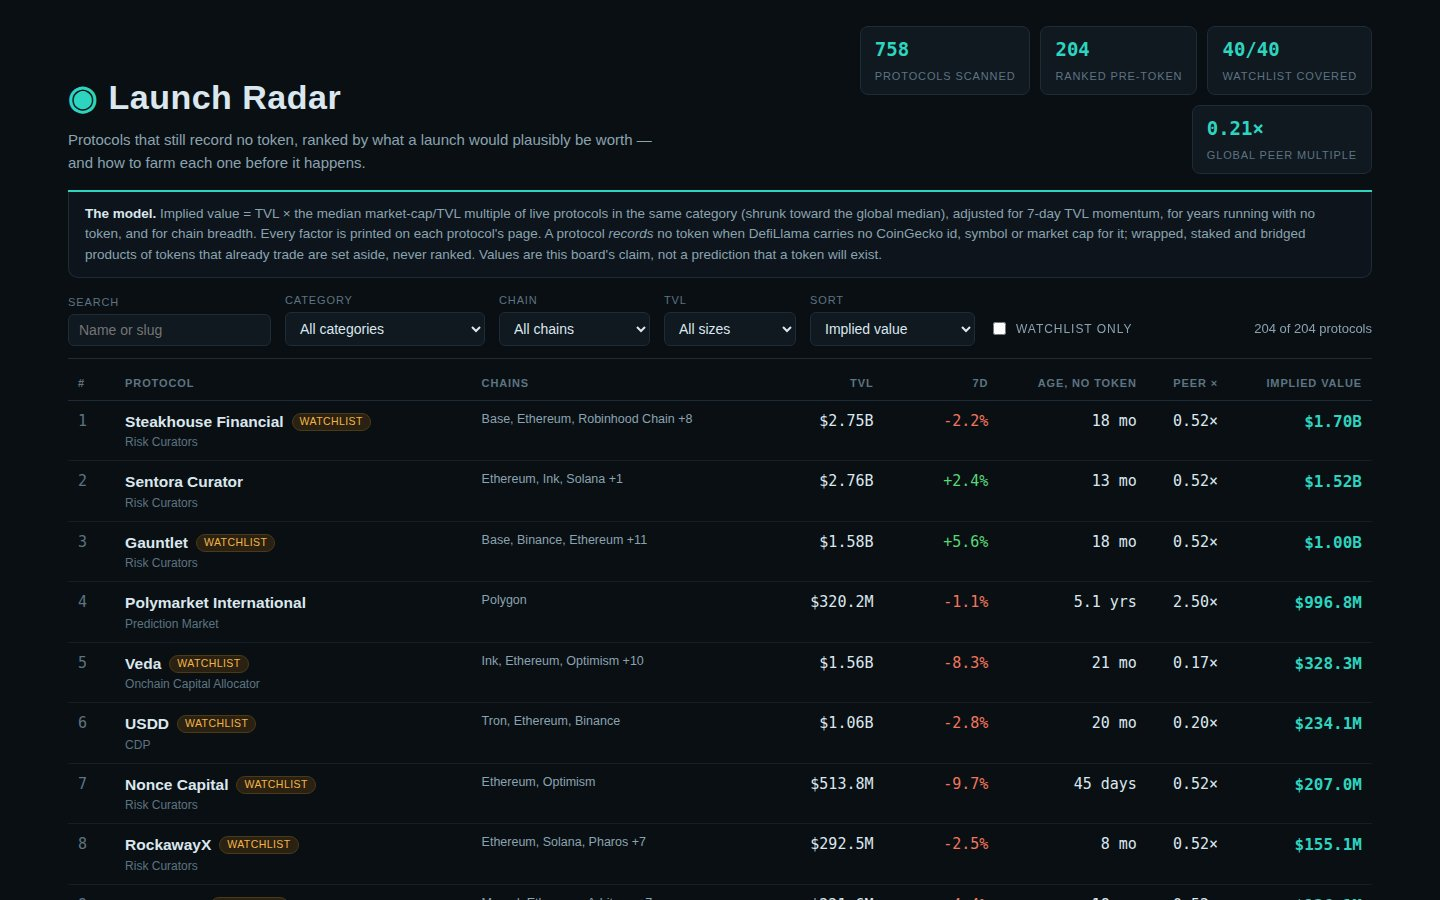
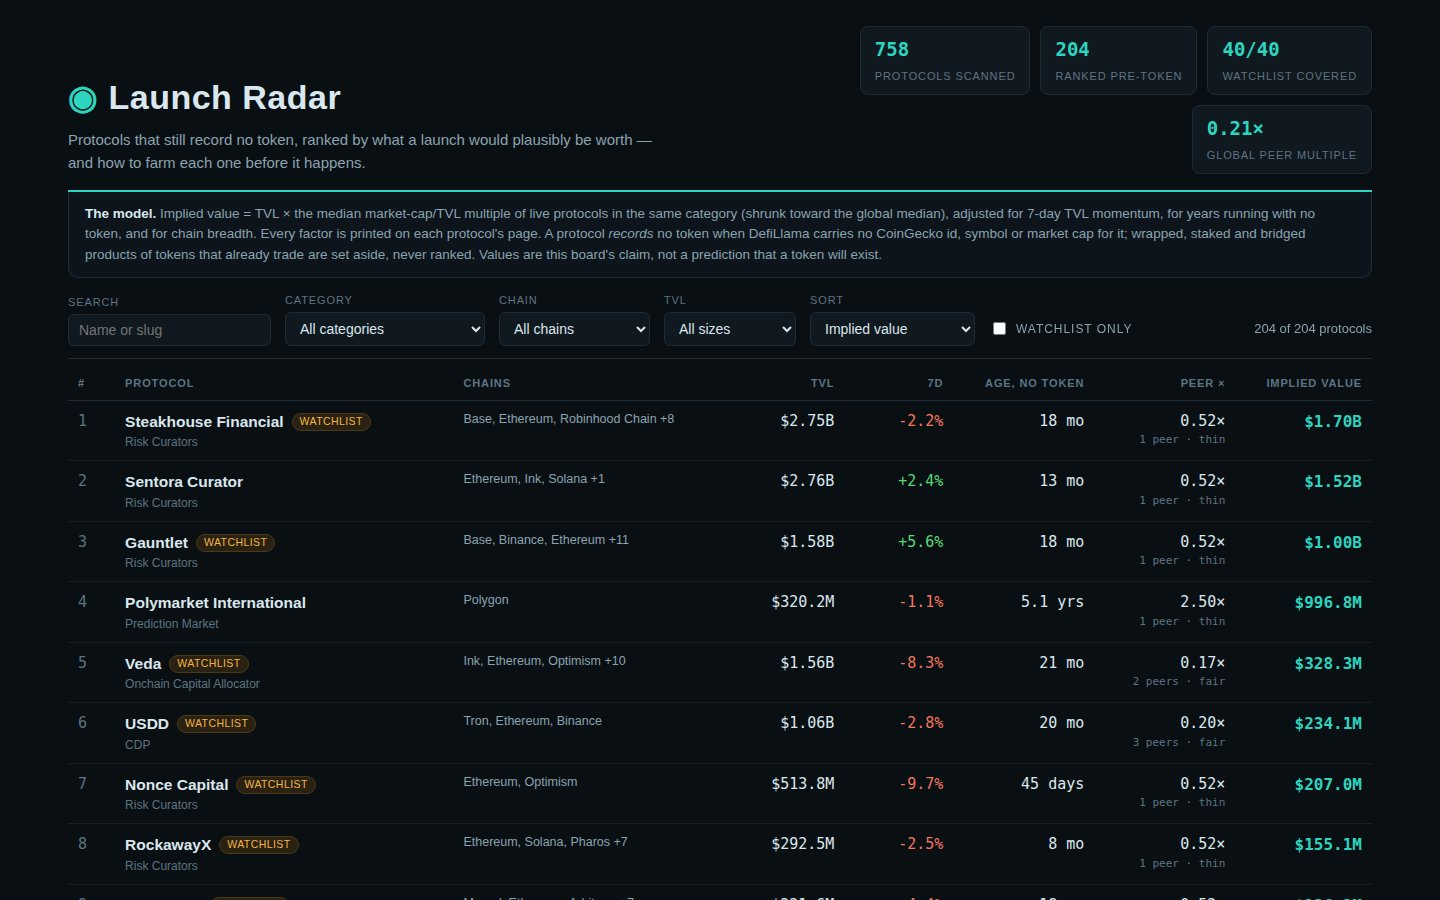
v2: name the live peers behind every multiple, grade the evidence, value bars

diff --git a/lib/model.ts b/lib/model.ts
@@ -57,7 +57,7 @@ export interface Snapshot {
 }
 
 /** The model's version label, stated in the dashboard and in every data file it writes. */
-export const MODEL_VERSION = 'peer-multiple radar-2';
+export const MODEL_VERSION = 'peer-multiple radar-3';
 
 /** How many ranked candidates the board carries before the watchlist force-in pass. */
 export const BOARD_ROWS = 240;
@@ -112,11 +112,14 @@ function median(xs: number[]): number {
 export interface PeerMultiples {
   global: number;
   byCategory: Map<string, { multiple: number; peers: number }>;
+  /** The live peers behind each category, largest market cap first: the evidence, named. */
+  lists: Map<string, { name: string; multiple: number; mcap: number }[]>;
 }
 
 export function peerMultiples(snapshot: Snapshot): PeerMultiples {
   const ratios: number[] = [];
   const perCategory = new Map<string, number[]>();
+  const lists = new Map<string, { name: string; multiple: number; mcap: number }[]>();
   for (const p of snapshot.protocols) {
     if (!recordsToken(p) || p.mcap_usd === null || p.mcap_usd <= 0 || p.tvl_usd < 1_000_000) continue;
     const ratio = p.mcap_usd / p.tvl_usd;
@@ -126,6 +129,9 @@ export function peerMultiples(snapshot: Snapshot): PeerMultiples {
     const list = perCategory.get(key) ?? [];
     list.push(ratio);
     perCategory.set(key, list);
+    const named = lists.get(key) ?? [];
+    named.push({ name: p.name, multiple: Math.round(ratio * 1000) / 1000, mcap: p.mcap_usd });
+    lists.set(key, named);
   }
   const global = ratios.length > 0 ? clamp(median(ratios), 0.03, 2.5) : 0.25;
   const byCategory = new Map<string, { multiple: number; peers: number }>();
@@ -135,7 +141,8 @@ export function peerMultiples(snapshot: Snapshot): PeerMultiples {
     const shrunk = (list.length * median(list) + 8 * global) / (list.length + 8);
     byCategory.set(key, { multiple: clamp(shrunk, 0.03, 2.5), peers: list.length });
   }
-  return { global, byCategory };
+  for (const named of lists.values()) named.sort((a, b) => b.mcap - a.mcap || a.name.localeCompare(b.name));
+  return { global, byCategory, lists };
 }
 
 /** The multiple a candidate is valued with, and how many live peers stand behind it. */
@@ -150,6 +157,8 @@ export interface ScoredCandidate {
   age_days: number | null;
   multiple: number;
   peers: number;
+  peer_names: { name: string; multiple: number }[];
+  confidence: 'deep' | 'fair' | 'thin';
   momentum: number;
   maturity: number;
   breadth: number;
@@ -158,13 +167,16 @@ export interface ScoredCandidate {
 
 export function scoreCandidate(p: SnapshotProtocol, peers: PeerMultiples, asOf: string): ScoredCandidate {
   const { multiple, peers: peerCount } = multipleFor(peers, p.category);
+  const named = peers.lists.get(p.category ?? '(uncategorised)') ?? [];
+  const peerNames = named.slice(0, 3).map((n) => ({ name: n.name, multiple: n.multiple }));
+  const confidence = peerCount >= 5 ? 'deep' : peerCount >= 2 ? 'fair' : 'thin';
   const age = ageDays(p, asOf);
   const growth = clamp(p.change_7d ?? 0, -50, 100);
   const momentum = 1 + 0.35 * (growth / 100);
   const maturity = 0.75 + 0.5 * (Math.min(age ?? 365, 1095) / 1095);
   const breadth = 1 + 0.04 * Math.min(Math.max(p.chains.length - 1, 0), 5);
   const implied = Math.max(1, Math.round(p.tvl_usd * multiple * momentum * maturity * breadth));
-  return { protocol: p, age_days: age, multiple, peers: peerCount, momentum, maturity, breadth, implied_value_usd: implied };
+  return { protocol: p, age_days: age, multiple, peers: peerCount, peer_names: peerNames, confidence, momentum, maturity, breadth, implied_value_usd: implied };
 }
 
 /** Compact dollars for prose: $1.2B, $340M, $25K. */
@@ -285,15 +297,16 @@ function coreSteps(p: SnapshotProtocol, size: string, gas: string): [string, str
  * takes, built from the protocol's own category, chains and scale. Deterministic: the same
  * snapshot figures always write the same plan.
  */
-export function farmSteps(p: SnapshotProtocol, asOf: string): string[] {
+export function farmSteps(p: SnapshotProtocol, asOf: string, watchlisted = false): string[] {
   const size = sizeBand(p.tvl_usd);
   const primary = p.chains[0] ?? 'its main chain';
   const gas = gasProfile(primary);
   const age = ageDays(p, asOf);
   const seasoning = age !== null && age >= 730 ? ` It has run ${Math.floor(age / 365)} years with no token, so the farm is a patience trade, not a sprint.` : '';
+  const listed = watchlisted ? ' It is on the house watchlist (over $50M TVL, no token recorded).' : '';
   const [core1, core2] = coreSteps(p, size, gas);
   return [
-    `Set up one wallet for ${p.name} and fund it on ${primary} with ${size} of working capital; use this same wallet for every step so the protocol sees one consistent user.${seasoning} Cost: one funding transaction (${gas}). Time: 15 minutes.`,
+    `Set up one wallet for ${p.name} and fund it on ${primary} with ${size} of working capital; use this same wallet for every step so the protocol sees one consistent user.${seasoning}${listed} Cost: one funding transaction (${gas}). Time: 15 minutes.`,
     core1,
     core2,
     `Stay consistent for at least 8 weeks: repeat the core action weekly and keep a balance in place across weekly snapshots, since one-day spikes are the first thing points and season systems discount. Cost: ${gas} each week. Time: 20 minutes a week.`,
@@ -315,6 +328,8 @@ export interface BoardRow {
   implied_value_usd: number;
   multiple: number;
   peers: number;
+  peer_names: { name: string; multiple: number }[];
+  confidence: 'deep' | 'fair' | 'thin';
   momentum: number;
   maturity: number;
   breadth: number;
@@ -419,11 +434,13 @@ export function buildRadar(snapshot: Snapshot): { board: BoardRow[]; radar: Rada
     implied_value_usd: s.implied_value_usd,
     multiple: Math.round(s.multiple * 1000) / 1000,
     peers: s.peers,
+    peer_names: s.peer_names,
+    confidence: s.confidence,
     momentum: Math.round(s.momentum * 1000) / 1000,
     maturity: Math.round(s.maturity * 1000) / 1000,
     breadth: Math.round(s.breadth * 1000) / 1000,
     watchlist: watchlist.has(s.protocol.slug),
-    farm_steps: farmSteps(s.protocol, snapshot.as_of),
+    farm_steps: farmSteps(s.protocol, snapshot.as_of, watchlist.has(s.protocol.slug)),
   }));
 
   const radar: RadarData = {

diff --git a/dashboard/app.js b/dashboard/app.js
@@ -37,6 +37,11 @@
     for (var i = 0; i < DATA.rows.length; i++) if (DATA.rows[i].slug === slug) return DATA.rows[i];
     return null;
   }
+  function barW(x, r) {
+    // Log-scale bar width against the larger of this row's TVL and implied value.
+    var top = Math.max(r.tvl_usd, r.implied_value_usd, 1);
+    return Math.max(4, Math.round(100 * Math.log10(Math.max(x, 1)) / Math.log10(top)));
+  }
 
   // ---- masthead + live strip + footer: the same on every view ----
   (function chrome() {
@@ -130,7 +135,7 @@
         '<td class="n num">' + usd(r.tvl_usd) + '</td>' +
         '<td class="n num">' + pct(r.change_7d) + '</td>' +
         '<td class="n num">' + ageText(r.age_days) + '</td>' +
-        '<td class="n num">' + r.multiple.toFixed(2) + '×</td>' +
+        '<td class="n num">' + r.multiple.toFixed(2) + '×<span class="sub">' + r.peers + ' peer' + (r.peers === 1 ? '' : 's') + ' · ' + r.confidence + '</span></td>' +
         '<td class="n num val">' + usd(r.implied_value_usd) + '</td></tr>';
     });
     view.innerHTML = html + '</tbody></table>';
@@ -156,6 +161,8 @@
       '<div class="kv"><b>' + (r.change_7d == null ? '—' : (r.change_7d >= 0 ? '+' : '') + r.change_7d.toFixed(1) + '%') + '</b><span>TVL change, 7 days</span></div>' +
       '<div class="kv"><b>' + ageText(r.age_days) + '</b><span>running with no token' + (r.listed_at ? ' · since ' + r.listed_at : '') + '</span></div>' +
       '<div class="kv"><b>' + r.chains.length + '</b><span>chains live on</span></div></div>' +
+      '<div class="bars"><div class="bar-row"><span>TVL today</span><div class="bar"><i style="width:' + barW(r.tvl_usd, r) + '%"></i></div><b class="num">' + usd(r.tvl_usd) + '</b></div>' +
+      '<div class="bar-row"><span>Implied value</span><div class="bar"><i class="teal" style="width:' + barW(r.implied_value_usd, r) + '%"></i></div><b class="num">' + usd(r.implied_value_usd) + '</b></div></div>' +
       '<div class="cols"><section class="panel"><h3>How the value is built</h3><table class="factors">' +
       '<tr><td>TVL (the snapshot\u2019s figure)</td><td class="n num">' + usd(r.tvl_usd) + '</td></tr>' +
       '<tr><td>Peer multiple — median mcap/TVL of ' + r.peers + ' live ' + esc(r.category || '') + ' protocol' + (r.peers === 1 ? '' : 's') + ', shrunk to the global median</td><td class="n num">× ' + r.multiple.toFixed(3) + '</td></tr>' +
@@ -164,7 +171,20 @@
       '<tr><td>Maturity — years running with no token, capped at three</td><td class="n num">× ' + r.maturity.toFixed(3) + '</td></tr>' +
       '<tr><td>Breadth — one plus 0.04 per extra chain, capped at five</td><td class="n num">× ' + r.breadth.toFixed(3) + '</td></tr>' +
       '<tr class="total"><td>Implied value if it launched at this record</td><td class="n num">' + usd(r.implied_value_usd) + '</td></tr>' +
-      '</table></section>' +
+      '</table>' +
+      '<div class="evidence"><h4>The live peers behind this multiple</h4>' +
+      (r.peer_names.length
+        ? '<ul class="peers">' + r.peer_names.map(function (pn) {
+            return '<li><b>' + esc(pn.name) + '</b><span class="num">' + pn.multiple.toFixed(2) + '× TVL</span></li>';
+          }).join('') + '</ul>'
+        : '<p class="none">No live protocol in this category clears the snapshot\u2019s $1M TVL evidence floor, so the global median carries the claim on its own.</p>') +
+      '<p class="conf">Evidence: <b class="conf-' + r.confidence + '">' + r.confidence + '</b> — ' +
+      (r.confidence === 'deep'
+        ? r.peers + ' live peers trade in this category; the median is the category\u2019s own market speaking.'
+        : r.confidence === 'fair'
+          ? r.peers + ' live peers trade in this category; shrinkage still lends the median some of the global market\u2019s weight.'
+          : 'at most one live peer stands behind this category, so shrinkage pulls the multiple toward the global median and the claim should be read with that caution.') +
+      '</p></div></section>' +
       '<section class="panel"><h3>Farm plan — what to do before a token exists</h3><ol class="steps">' +
       r.farm_steps.map(function (s) { return '<li>' + esc(s) + '</li>'; }).join('') +
       '</ol></section></div>';

diff --git a/dashboard/app.css b/dashboard/app.css
@@ -97,6 +97,21 @@ table.factors tr.total td { border-bottom: none; font-weight: 700; color: var(--
 ol.steps { margin: 0; padding-left: 22px; }
 ol.steps li { margin: 0 0 12px; }
 ol.steps li::marker { color: var(--teal); font-weight: 700; }
+td .sub { display: block; color: var(--faint); font-size: 11px; }
+.bars { margin: 2px 0 14px; display: grid; gap: 6px; }
+.bar-row { display: grid; grid-template-columns: 110px 1fr 90px; align-items: center; gap: 12px; font-size: 12.5px; color: var(--dim); }
+.bar-row b { text-align: right; color: var(--text); font-size: 13.5px; }
+.bar { background: var(--panel); border: 1px solid var(--line); border-radius: 5px; height: 12px; overflow: hidden; }
+.bar i { display: block; height: 100%; background: #3d5a68; }
+.bar i.teal { background: var(--teal); }
+.evidence { margin-top: 14px; border-top: 1px solid #16222c; padding-top: 12px; }
+.evidence h4 { margin: 0 0 8px; font-size: 12.5px; text-transform: uppercase; letter-spacing: 0.07em; color: var(--dim); }
+ul.peers { list-style: none; margin: 0 0 8px; padding: 0; }
+ul.peers li { display: flex; justify-content: space-between; padding: 4px 0; border-bottom: 1px solid #131e27; font-size: 13.5px; }
+ul.peers li span { color: var(--dim); }
+.evidence .none { color: var(--dim); font-size: 13.5px; margin: 0 0 8px; }
+.evidence .conf { color: var(--dim); font-size: 13px; margin: 6px 0 0; }
+.conf-deep { color: var(--green); } .conf-fair { color: var(--amber); } .conf-thin { color: var(--red); }
 
 .live-strip { margin-top: 30px; border-top: 1px solid var(--line); padding-top: 16px; }
 .live-strip h3 { font-size: 13px; text-transform: uppercase; letter-spacing: 0.08em; color: var(--faint); margin: 0 0 10px; }

diff --git a/README.md b/README.md
@@ -8,10 +8,12 @@ Launch Radar ranks the protocols in a sealed DefiLlama snapshot that still recor
 implied launch value, and gives each one a concrete farm plan. The value model is a peer-multiple
 model: a protocol's TVL is multiplied by the median market-cap/TVL of live protocols in its own
 category (shrunk toward the global median), then adjusted for 7-day TVL momentum, for how long it
-has run with no token, and for chain breadth. Wrapped, staked and bridged products of tokens that
-already trade are set aside, never ranked. The dashboard is a static page — a sortable, filterable
-board, a detail page per protocol with the model's arithmetic in full, and the live-token market
-shown for scale.
+has run with no token, and for chain breadth. Every multiple names the live peers behind it and
+grades its own evidence (deep, fair or thin), so a claim carried by one loud peer reads differently
+from one carried by a whole category. Wrapped, staked and bridged products of tokens that already
+trade are set aside, never ranked. The dashboard is a static page — a sortable, filterable board,
+a detail page per protocol with the model's arithmetic in full, and the live-token market shown
+for scale.
 
 ## Run it
 
